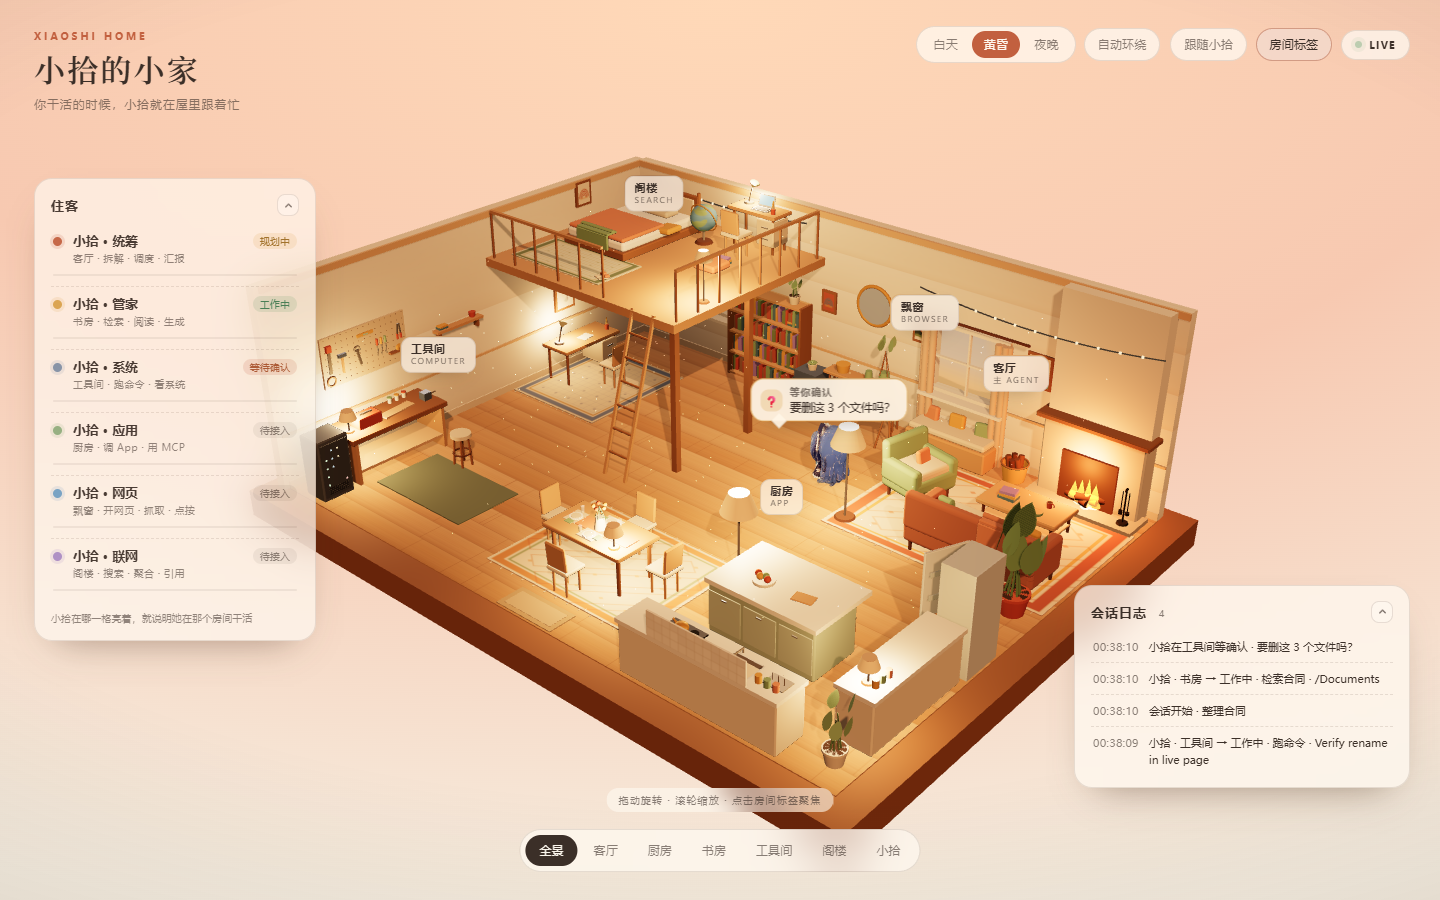
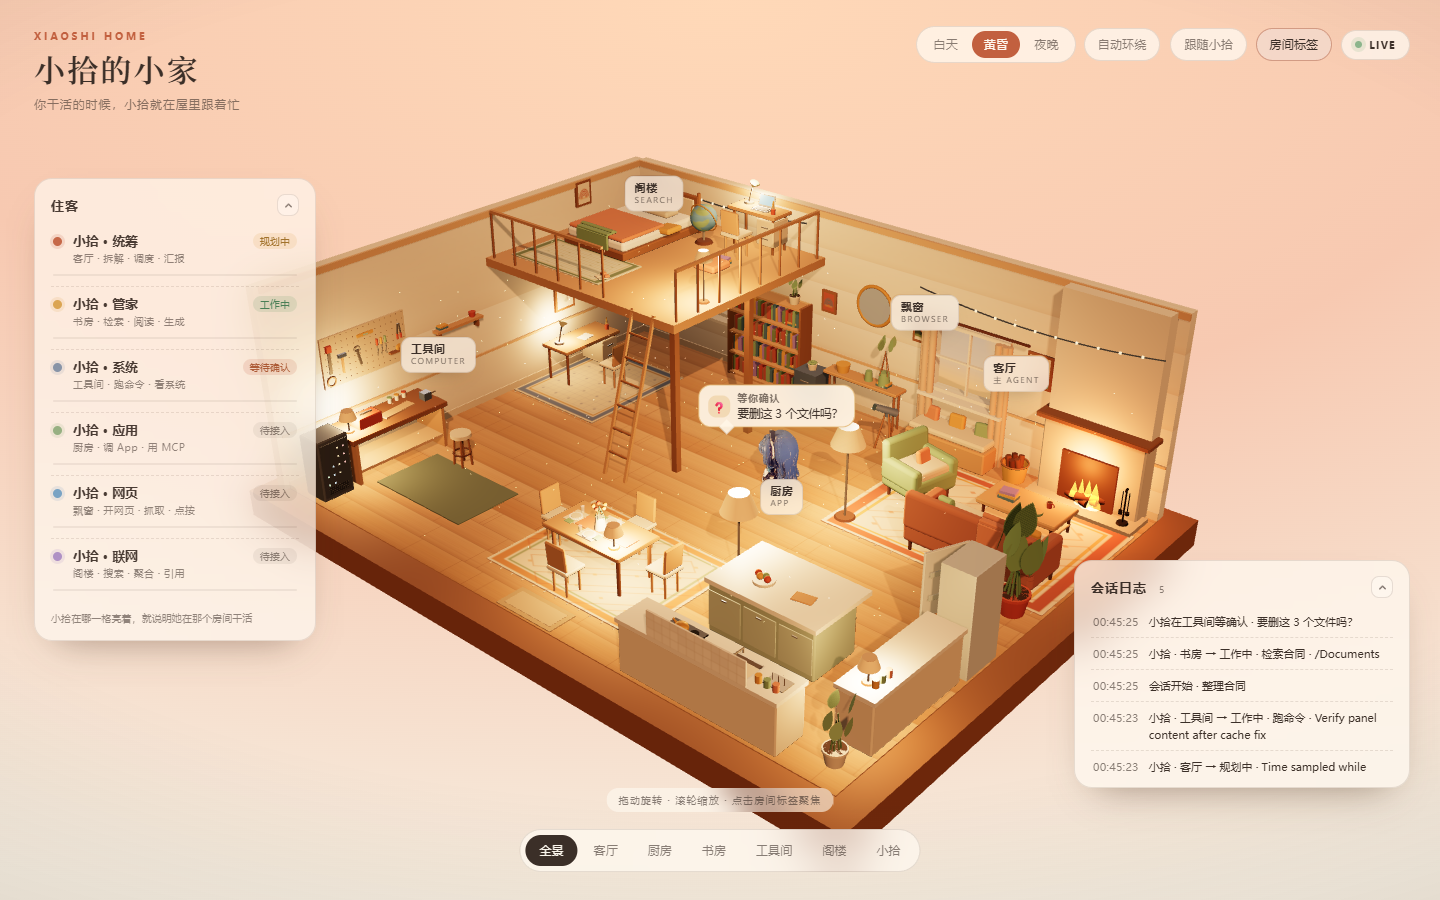
关掉静态缓存：.js 曾缓存 60s 导致改名后面板看不到 + 入口脚本加版本串

diff --git a/src/scene/glbLoader.js b/src/scene/glbLoader.js
@@ -281,13 +281,33 @@ async function buildScene(gltf, bin, opts) {
         const bones = (s.joints || []).map((i) => nodeObjs[i]).filter(Boolean);
         if (!bones.length) throw new Error('skin.joints 全部缺失');
         const inv = s.inverseBindMatrices != null ? readAccessor(s.inverseBindMatrices) : null;
-        const boneInverses = [];
+        const fromFile = [];
+        const fromRest = [];
+        let fileDev = 0;
         for (let i = 0; i < bones.length; i++) {
-          const m = new THREE.Matrix4();
+          const mf = new THREE.Matrix4();
           // glTF 矩阵是列主序，与 THREE.Matrix4 内部一致，可直接 fromArray
-          if (inv && inv.itemSize === 16) m.fromArray(inv.array, i * 16);
-          else m.copy(bones[i].matrixWorld).invert();
-          boneInverses.push(m);
+          if (inv && inv.itemSize === 16) mf.fromArray(inv.array, i * 16);
+          else mf.copy(bones[i].matrixWorld).invert();
+          fromFile.push(mf);
+          const mr = new THREE.Matrix4().copy(bones[i].matrixWorld).invert();
+          fromRest.push(mr);
+          // 文件里的 IBM 乘上静止世界矩阵应当≈单位阵；偏差大说明两边空间不一致
+          const chk = new THREE.Matrix4().copy(bones[i].matrixWorld).multiply(mf);
+          const e = chk.elements;
+          for (let k = 0; k < 16; k++) {
+            const d = Math.abs(e[k] - (k % 5 === 0 ? 1 : 0));
+            if (d > fileDev) fileDev = d;
+          }
+        }
+        // 用静止姿态自己算的 IBM：静止时 bone.matrixWorld · IBM 恒等于单位阵，
+        // 从数学上保证「不动画 = 与原始模型逐顶点一致」。
+        const boneInverses = fileDev > 1e-3 ? fromRest : fromFile;
+        if (fileDev > 1e-3) {
+          console.warn(
+            `[glb] 文件的 inverseBindMatrix 与本解析器节点空间不一致（最大偏差 ${fileDev.toFixed(4)}），` +
+              '改用静止姿态重算，保证静止零变形。'
+          );
         }
         const skeleton = new THREE.Skeleton(bones, boneInverses);
 

diff --git a/index.html b/index.html
@@ -87,7 +87,14 @@
       </div>
     </div>
 
-    <script type="module" src="./src/main.js"></script>
+    <!-- 入口脚本带版本串：改了代码重启后自动换 URL，绕开浏览器对 .js 的缓存 -->
+    <script type="module" id="entry"></script>
+    <script>
+      (function () {
+        var s = document.getElementById("entry");
+        s.src = "./src/main.js?v=" + (window.__HOME_BUILD__ || Date.now());
+      })();
+    </script>
     <script>
       window.setTimeout(function () {
         if (!window.__homeReady) {

diff --git a/demo.html b/demo.html
@@ -213,6 +213,7 @@
           character.userData.animate(t);
           // 骨骼层：整体位移归控制器，这里只驱动四肢躯干
           character.userData.boneTick?.(t + window.__phase, dt, poseCtx);
+          if (window.__freeze) character.userData.animator?.reset();
           if (spin) character.rotation.y = Math.sin(t * 0.28) * 0.5;
           else character.rotation.y *= 0.9;
         }
